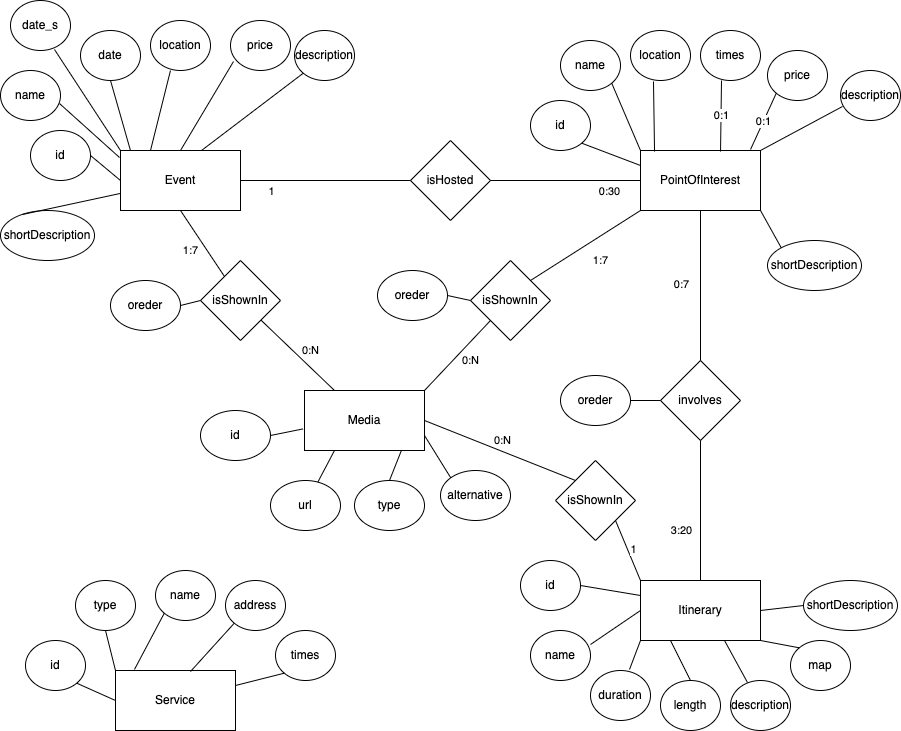
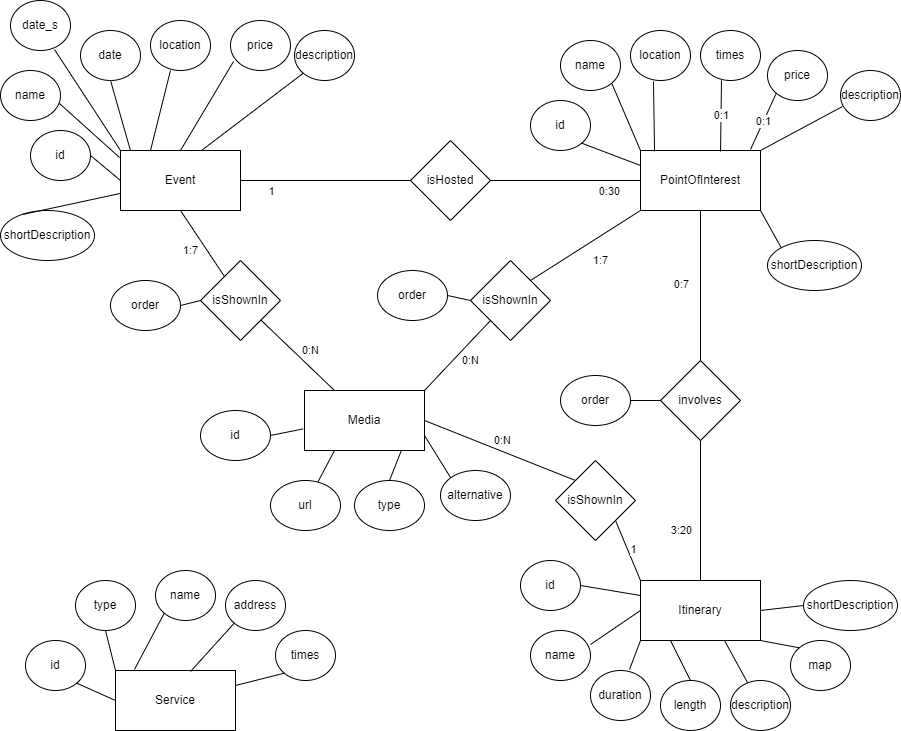
Started to fix the header, corrected small errors in design part

diff --git a/Il nostro progetto/components/TheHeader.vue b/Il nostro progetto/components/TheHeader.vue
@@ -21,7 +21,7 @@
             <!---->
 
             <div class="nav-link dropdown-div">
-              <nuxt-link id="dropdown-list" class="" :to="events[0].path">
+              <nuxt-link id="dropdown-list" :to="events[0].path">
                 {{ events[0].name }}
               </nuxt-link>
               <button
@@ -48,57 +48,53 @@
         </ul>
       </div>
     </nav>
+
+    <nav class="navbar navbar-expand-lg navbar-light px-3 header-holder">
+      <div id="home-link" class="navbar-brand">
+        <span class="capital-letter">V</span>isit<span class="capital-letter">M</span>antova
+      </div>
+
+      <div id="navbarToggler" class="collapse navbar-collapse">
+        <ul class="navbar-nav mr-auto mt-2 mt-lg-0">
+          
+          <div>
+            
+            <div class="nav-link dropdown-div">
+              <nuxt-link id="dropdown-list" class="ex-nl" :to="events[0].path">
+                {{ events[0].name }}
+              </nuxt-link>
+              <button
+                  type="button" class="
+                  btn btn-sm btn-secondary
+                  dropdown-toggle dropdown-toggle-split
+                " data-toggle="dropdown" aria-haspopup="true" aria-expanded="false">
+                
+              </button>
+              <div class="dropdown-menu">
+                <nuxt-link
+                  v-for="(eventItem, eventItemIndex) of eventList" :key="`eventItem${eventItemIndex}`"
+                  class="dropdown-item" :to="eventItem.path">{{ eventItem.name }}</nuxt-link>
+              </div>
+            </div>
+          </div>
+
+          <li v-for="(navItem, navItemIndex) of headerList" :key="`navItem${navItemIndex}`" class="nav-item">
+            <nuxt-link :to="navItem.path" class="nav-link">
+              {{ navItem.name }}
+            </nuxt-link>
+          </li>
+
+        </ul>
+      </div>
+    </nav>
+
+<!--
+  <div class="place-holder">
+
+  </div>
+-->
   </div>
 </template>
-
-<style scoped>
-@import '~/static/style/main.css';
-
-a {
-  text-decoration: none;
-  color: inherit;
-}
-
-.header {
-  padding-top: 0px;
-  padding-bottom: 0px;
-  background: var(--color1);
-  width: 100%;
-  top: 0;
-  position: fixed;
-  z-index: 5;
-}
-
-#home-link {
-  font-family: var(--title-font);
-  color: var(--color2);
-  font-size: 150%;
-  margin-left: 1vw;
-}
-
-#home-link:hover {
-  text-decoration: underline;
-}
-
-.capital-letter {
-  font-size: 150%;
-}
-
-li, .dropdown-div{ margin-left: 2vw; }
-
-.nav-link {
-  color: var(--color2) !important;
-  font-size: 150%;
-}
-
-li:hover .nav-link {
-  text-decoration: underline;
-}
-
-.dropdown-div:hover #dropdown-list {
-  text-decoration: underline;
-}
-</style>
 
 
 <script>
@@ -156,3 +152,74 @@ export default {
   },
 }
 </script>
+
+
+<style scoped>
+@import '~/static/style/main.css';
+
+
+a {
+  text-decoration: none;
+  color: inherit;
+} 
+
+.ex-nl {
+  text-decoration: none;
+  color: inherit;
+} 
+
+.header {
+  padding-top: 0px;
+  padding-bottom: 0px;
+  background: var(--color1);
+  width: 100%;
+  top: 0;
+  position: fixed;
+  z-index: 5;
+}
+
+.header-holder {
+  padding-top: 0px;
+  padding-bottom: 0px;
+}
+
+#home-link {
+  font-family: var(--title-font);
+  color: var(--color2);
+  font-size: 150%;
+  margin-left: 1vw;
+}
+
+#home-link:hover {
+  text-decoration: underline;
+}
+
+.capital-letter {
+  font-size: 150%;
+}
+
+li, .dropdown-div{ margin-left: 2vw; }
+
+.nav-link {
+  color: var(--color2) !important;
+  font-size: 150%;
+}
+
+li:hover .nav-link {
+  text-decoration: underline;
+}
+
+.dropdown-div:hover #dropdown-list {
+  text-decoration: underline;
+}
+
+.place-holder {
+  z-index: -100;
+  background-color: blue;
+  width: 100%;
+  height: 2cm;
+}
+
+</style>
+
+
